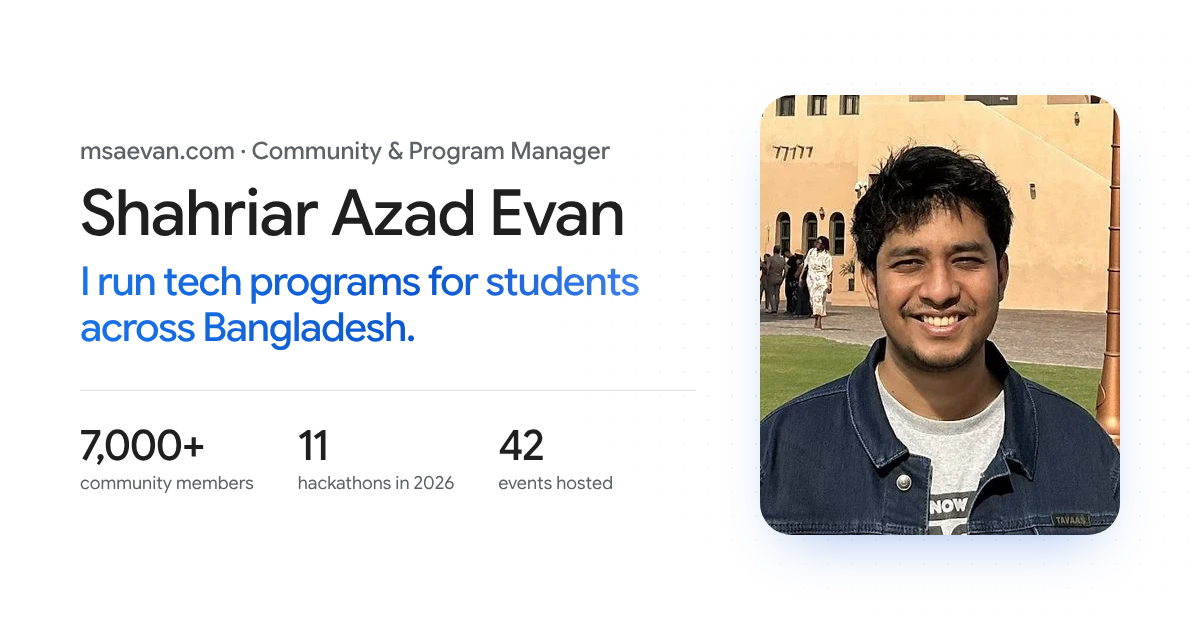
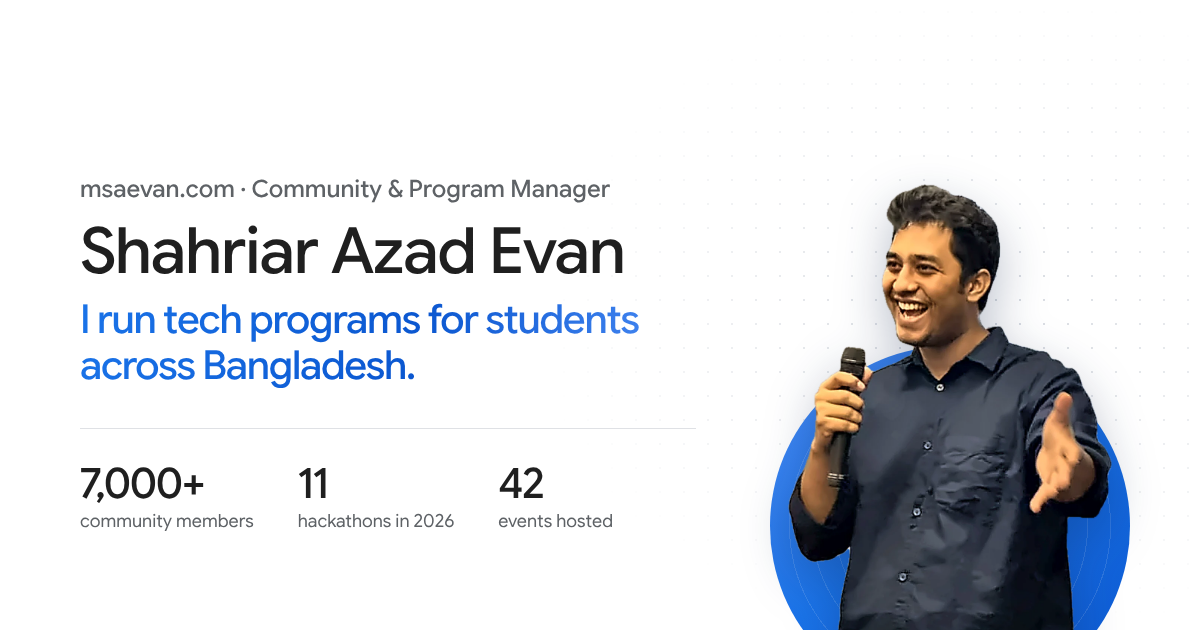
Hero stage with cut-out speaker photo, layered effects, Dhaka Tribune
- Transparent cut-out of the Hacktoberfest Hack Day photo (BiRefNet
  matting, denoise, local contrast, sharpening; 1x and 2x WebP) standing
  over a Google Blue disc with the network motif behind it
- Pointer-driven layered depth, cursor-lit dot grid, focus state for the
  journey cards, buttons that lean toward the cursor; all off for touch
  and reduced motion
- Press: Dhaka Tribune, Oct 2026 (Global Digital Forum delegation)
- Social card rebuilt with the new photo; drop unused portrait.webp

Claude-Session: https://claude.ai/code/session_01PLjxs9tdQ5vjxFupRfSiNv

diff --git a/index.html b/index.html
@@ -36,7 +36,7 @@
 <script type="application/ld+json">
 {"@context":"https://schema.org","@graph":[
 {"@type":"ProfilePage","@id":"https://msaevan.com/#page","url":"https://msaevan.com/","name":"Shahriar Azad Evan – Community & Program Manager","inLanguage":"en","dateModified":"2026-11-12","mainEntity":{"@id":"https://msaevan.com/#person"}},
-{"@type":"Person","@id":"https://msaevan.com/#person","name":"Shahriar Azad Evan","alternateName":["Md Shahriar Azad Evan","MSA Evan"],"url":"https://msaevan.com/","image":"https://msaevan.com/portrait.jpg","email":"mailto:shahriarazadevan@gmail.com","jobTitle":"Community & Program Manager","description":"Community and program manager in Dhaka, Bangladesh. Organizer of Machine Learning Bangladesh and founder of Cedar Initiative.","address":{"@type":"PostalAddress","addressLocality":"Dhaka","addressCountry":"BD"},
+{"@type":"Person","@id":"https://msaevan.com/#person","name":"Shahriar Azad Evan","alternateName":["Md Shahriar Azad Evan","MSA Evan"],"url":"https://msaevan.com/","image":["https://msaevan.com/portrait.jpg","https://msaevan.com/speaker@2x.webp"],"email":"mailto:shahriarazadevan@gmail.com","jobTitle":"Community & Program Manager","description":"Community and program manager in Dhaka, Bangladesh. Organizer of Machine Learning Bangladesh and founder of Cedar Initiative.","address":{"@type":"PostalAddress","addressLocality":"Dhaka","addressCountry":"BD"},
 "affiliation":[{"@type":"Organization","name":"Machine Learning Bangladesh","url":"https://mlbangladesh.org/"},{"@type":"Organization","name":"Cedar Initiative","url":"https://cedar-initiative.org/"},{"@type":"Organization","name":"CMX"}],
 "memberOf":{"@type":"Organization","name":"Google AI Community Network"},
 "alumniOf":[{"@type":"CollegeOrUniversity","name":"Kirkwood Community College"},{"@type":"CollegeOrUniversity","name":"United International University"}],
@@ -44,7 +44,7 @@
 "knowsAbout":["Community management","Program management","Event management","Hackathons","Kaggle competitions","Developer relations","Partnerships and sponsorships"],
 "knowsLanguage":["Bengali","English","Hindi"],
 "sameAs":["https://www.linkedin.com/in/msaevan101","https://x.com/msaevan101","https://www.kaggle.com/msaevan","https://www.facebook.com/shahriarazadevan"],
-"subjectOf":[{"@type":"WebPage","url":"https://mlbangladesh.org/team"},{"@type":"NewsArticle","url":"https://www.tbsnews.net/bangladesh/bangladeshi-youth-wins-top-spot-cica-artificial-intelligence-art-competition-1284891"}]}
+"subjectOf":[{"@type":"NewsArticle","url":"https://www.dhakatribune.com/bangladesh/foreign-affairs/422008/a-new-chapter-in-bangladesh%E2%80%93russia-digital"},{"@type":"WebPage","url":"https://mlbangladesh.org/team"},{"@type":"NewsArticle","url":"https://www.tbsnews.net/bangladesh/bangladeshi-youth-wins-top-spot-cica-artificial-intelligence-art-competition-1284891"}]}
 ]}
 </script>
 <script>document.documentElement.classList.add('js');try{var t=localStorage.getItem('theme');if(t)document.documentElement.setAttribute('data-theme',t)}catch(e){}</script>
@@ -110,7 +110,7 @@ img{display:block;max-width:100%}
 }
 
 /* Buttons */
-.btn{display:inline-flex;align-items:center;justify-content:center;gap:8px;min-height:48px;padding:0 24px;border-radius:999px;font-size:16px;font-weight:500;white-space:nowrap;transition:background .2s,filter .2s,box-shadow .2s}
+.btn{transition:transform .25s cubic-bezier(.2,.7,.2,1),background .2s,filter .2s,box-shadow .2s;display:inline-flex;align-items:center;justify-content:center;gap:8px;min-height:48px;padding:0 24px;border-radius:999px;font-size:16px;font-weight:500;white-space:nowrap;transition:background .2s,filter .2s,box-shadow .2s}
 .btn:hover{text-decoration:none}
 .btn.primary{background:var(--btn);color:var(--btn-ink)}
 .btn.primary:hover{filter:brightness(1.06);box-shadow:0 1px 3px rgba(26,115,232,.35)}
@@ -285,7 +285,7 @@ footer a{color:var(--ink-2)}
 .net .p{fill:none;stroke:var(--blue);stroke-width:2.4;stroke-linecap:round;vector-effect:non-scaling-stroke;stroke-dasharray:0 100;opacity:0}
 .net .n{fill:var(--bg);stroke:var(--blue);stroke-width:1.6;vector-effect:non-scaling-stroke}
 .net .n.big{fill:var(--blue);stroke:none}
-@media (max-width:820px){.visual .net{display:none}.visual{order:-1}}
+
 /* blue stat tile */
 .stat{position:relative;overflow:hidden}
 .stat.blue{background:var(--grad-tile)}
@@ -333,6 +333,39 @@ footer a{color:var(--ink-2)}
   }
 }
 @media print{.net,.hero::before,.rail-row,.stat .arcs{display:none}.hero .accent{color:#0b57d0;background:none}}
+
+/* ===== Hero stage: cut-out portrait over a blue disc, layered depth ===== */
+.stage{position:relative;aspect-ratio:4/5;max-width:440px;margin-left:auto;isolation:isolate;--px:0;--py:0}
+.stage>*{will-change:transform}
+.disc{position:absolute;left:0;right:0;bottom:0;aspect-ratio:1;border-radius:50%;z-index:0;
+  background:repeating-radial-gradient(circle at 50% 50%,rgba(255,255,255,0) 0 22px,rgba(255,255,255,.12) 22px 23px),var(--grad-tile);
+  box-shadow:0 40px 80px -30px rgba(11,87,208,.55),inset 0 -30px 60px rgba(4,40,110,.35);
+  clip-path:inset(-20% -20% 0 -20%)}
+.stage .net{position:absolute;inset:-18% -22% 8% -22%;width:144%;height:110%;z-index:-1}
+.speaker{position:absolute;left:50%;bottom:0;width:84%;height:auto;max-width:none;z-index:1;transform:translateX(-50%);filter:drop-shadow(0 18px 24px rgba(10,30,70,.28))}
+.chip{position:absolute;left:-6%;top:38%;z-index:2;display:inline-flex;align-items:center;gap:8px;padding:9px 14px;border-radius:999px;font-size:13px;font-weight:500;color:var(--ink);
+  background:color-mix(in srgb,var(--surface) 78%,transparent);backdrop-filter:blur(14px) saturate(1.6);-webkit-backdrop-filter:blur(14px) saturate(1.6);box-shadow:0 8px 28px -10px rgba(10,30,70,.35),inset 0 0 0 1px color-mix(in srgb,var(--ink) 8%,transparent)}
+.live{width:8px;height:8px;border-radius:50%;background:var(--blue);box-shadow:0 0 0 0 rgba(26,115,232,.5)}
+@media (max-width:820px){.visual{order:-1}.stage{max-width:260px;margin:0 auto 8px}.chip{left:-4%;top:30%}.stage .net{display:none}}
+/* pointer-reactive dot grid */
+.hero::after{content:"";position:absolute;inset:0;z-index:-1;pointer-events:none;opacity:0;transition:opacity .4s;
+  background-image:radial-gradient(var(--blue) 1.2px,transparent 1.5px);background-size:24px 24px;
+  -webkit-mask-image:radial-gradient(180px circle at var(--hx,50%) var(--hy,50%),#000,transparent 70%);mask-image:radial-gradient(180px circle at var(--hx,50%) var(--hy,50%),#000,transparent 70%)}
+.hero.lit::after{opacity:.55}
+/* journey focus */
+.ms{transition:opacity .5s,transform .5s cubic-bezier(.2,.7,.2,1)}
+.js .track.focus .ms:not(.active){opacity:.5;transform:scale(.97)}
+@media (prefers-reduced-motion:no-preference){
+  .disc{animation:discIn 1.1s cubic-bezier(.16,1,.3,1) both .1s}
+  .speaker{animation:riseIn 1.1s cubic-bezier(.16,1,.3,1) both .25s}
+  .chip{animation:chipIn .7s cubic-bezier(.2,1.3,.4,1) both .9s}
+  .live{animation:live 2.4s ease-out infinite 1.6s}
+  @keyframes discIn{from{transform:scale(.82);opacity:0}to{transform:none;opacity:1}}
+  @keyframes riseIn{from{transform:translate(-50%,40px);opacity:0}to{transform:translateX(-50%);opacity:1}}
+  @keyframes chipIn{from{transform:translateY(10px) scale(.9);opacity:0}to{transform:none;opacity:1}}
+  @keyframes live{0%{box-shadow:0 0 0 0 rgba(26,115,232,.55)}80%,100%{box-shadow:0 0 0 10px rgba(26,115,232,0)}}
+}
+@media print{.disc,.chip,.hero::after{display:none}}
 
 /* Motion: hero reveal and count-ups */
 @media (prefers-reduced-motion:no-preference){
@@ -393,11 +426,12 @@ footer a{color:var(--ink-2)}
       </div>
     </div>
     <div class="visual">
-      <svg class="net" viewBox="0 0 400 400" aria-hidden="true" focusable="false"><path class="e" pathLength="100" style="--i:0" d="M137 74L45 53"/><path class="e" pathLength="100" style="--i:1" d="M137 74L120 170"/><path class="e" pathLength="100" style="--i:2" d="M254 46L213 152"/><path class="e" pathLength="100" style="--i:3" d="M254 46L371 37"/><path class="e" pathLength="100" style="--i:4" d="M254 46L329 124"/><path class="e" pathLength="100" style="--i:5" d="M213 152L120 170"/><path class="e" pathLength="100" style="--i:6" d="M213 152L206 242"/><path class="e" pathLength="100" style="--i:7" d="M41 203L42 273"/><path class="e" pathLength="100" style="--i:8" d="M41 203L120 170"/><path class="e" pathLength="100" style="--i:9" d="M41 203L29 335"/><path class="e" pathLength="100" style="--i:10" d="M41 203L30 121"/><path class="e" pathLength="100" style="--i:11" d="M45 53L30 121"/><path class="e" pathLength="100" style="--i:12" d="M173 318L246 361"/><path class="e" pathLength="100" style="--i:13" d="M173 318L206 242"/><path class="e" pathLength="100" style="--i:14" d="M246 361L322 360"/><path class="e" pathLength="100" style="--i:15" d="M371 37L329 124"/><path class="e" pathLength="100" style="--i:16" d="M329 124L364 181"/><path class="e" pathLength="100" style="--i:17" d="M133 231L120 170"/><path class="e" pathLength="100" style="--i:18" d="M133 231L206 242"/><path class="e" pathLength="100" style="--i:19" d="M306 272L322 360"/><path class="e" pathLength="100" style="--i:20" d="M306 272L206 242"/><path class="e" pathLength="100" style="--i:21" d="M306 272L364 181"/><path class="e" pathLength="100" style="--i:22" d="M42 273L29 335"/><path class="p" pathLength="100" style="--i:0" d="M137 74L120 170"/><path class="p" pathLength="100" style="--i:1" d="M213 152L120 170"/><path class="p" pathLength="100" style="--i:2" d="M41 203L29 335"/><path class="p" pathLength="100" style="--i:3" d="M246 361L322 360"/><path class="p" pathLength="100" style="--i:4" d="M306 272L322 360"/><circle class="n big" style="--i:0" cx="137" cy="74" r="6"/><circle class="n" style="--i:1" cx="254" cy="46" r="3.5"/><circle class="n" style="--i:2" cx="213" cy="152" r="3.5"/><circle class="n" style="--i:3" cx="41" cy="203" r="3.5"/><circle class="n" style="--i:4" cx="45" cy="53" r="3.5"/><circle class="n big" style="--i:5" cx="173" cy="318" r="6"/><circle class="n" style="--i:6" cx="246" cy="361" r="3.5"/><circle class="n" style="--i:7" cx="371" cy="37" r="3.5"/><circle class="n" style="--i:8" cx="329" cy="124" r="3.5"/><circle class="n" style="--i:9" cx="133" cy="231" r="3.5"/><circle class="n big" style="--i:10" cx="306" cy="272" r="6"/><circle class="n" style="--i:11" cx="322" cy="360" r="3.5"/><circle class="n" style="--i:12" cx="42" cy="273" r="3.5"/><circle class="n" style="--i:13" cx="120" cy="170" r="3.5"/><circle class="n" style="--i:14" cx="206" cy="242" r="3.5"/><circle class="n big" style="--i:15" cx="29" cy="335" r="6"/><circle class="n" style="--i:16" cx="30" cy="121" r="3.5"/><circle class="n" style="--i:17" cx="364" cy="181" r="3.5"/></svg>
-    <figure class="portrait fade" style="--d:200ms">
-      <img class="u-photo" src="portrait.webp" width="440" height="440" alt="Portrait of Shahriar Azad Evan" fetchpriority="high">
-      <figcaption><b>Organizer, Machine Learning Bangladesh</b>Founder, Cedar Initiative</figcaption>
-    </figure>
+      <div class="stage" id="stage">
+        <div class="disc" data-depth="8" aria-hidden="true"></div>
+        <svg class="net" data-depth="16" viewBox="0 0 400 400" aria-hidden="true" focusable="false"><path class="e" pathLength="100" style="--i:0" d="M137 74L45 53"/><path class="e" pathLength="100" style="--i:1" d="M137 74L120 170"/><path class="e" pathLength="100" style="--i:2" d="M254 46L213 152"/><path class="e" pathLength="100" style="--i:3" d="M254 46L371 37"/><path class="e" pathLength="100" style="--i:4" d="M254 46L329 124"/><path class="e" pathLength="100" style="--i:5" d="M213 152L120 170"/><path class="e" pathLength="100" style="--i:6" d="M213 152L206 242"/><path class="e" pathLength="100" style="--i:7" d="M41 203L42 273"/><path class="e" pathLength="100" style="--i:8" d="M41 203L120 170"/><path class="e" pathLength="100" style="--i:9" d="M41 203L29 335"/><path class="e" pathLength="100" style="--i:10" d="M41 203L30 121"/><path class="e" pathLength="100" style="--i:11" d="M45 53L30 121"/><path class="e" pathLength="100" style="--i:12" d="M173 318L246 361"/><path class="e" pathLength="100" style="--i:13" d="M173 318L206 242"/><path class="e" pathLength="100" style="--i:14" d="M246 361L322 360"/><path class="e" pathLength="100" style="--i:15" d="M371 37L329 124"/><path class="e" pathLength="100" style="--i:16" d="M329 124L364 181"/><path class="e" pathLength="100" style="--i:17" d="M133 231L120 170"/><path class="e" pathLength="100" style="--i:18" d="M133 231L206 242"/><path class="e" pathLength="100" style="--i:19" d="M306 272L322 360"/><path class="e" pathLength="100" style="--i:20" d="M306 272L206 242"/><path class="e" pathLength="100" style="--i:21" d="M306 272L364 181"/><path class="e" pathLength="100" style="--i:22" d="M42 273L29 335"/><path class="p" pathLength="100" style="--i:0" d="M137 74L120 170"/><path class="p" pathLength="100" style="--i:1" d="M213 152L120 170"/><path class="p" pathLength="100" style="--i:2" d="M41 203L29 335"/><path class="p" pathLength="100" style="--i:3" d="M246 361L322 360"/><path class="p" pathLength="100" style="--i:4" d="M306 272L322 360"/><circle class="n big" style="--i:0" cx="137" cy="74" r="6"/><circle class="n" style="--i:1" cx="254" cy="46" r="3.5"/><circle class="n" style="--i:2" cx="213" cy="152" r="3.5"/><circle class="n" style="--i:3" cx="41" cy="203" r="3.5"/><circle class="n" style="--i:4" cx="45" cy="53" r="3.5"/><circle class="n big" style="--i:5" cx="173" cy="318" r="6"/><circle class="n" style="--i:6" cx="246" cy="361" r="3.5"/><circle class="n" style="--i:7" cx="371" cy="37" r="3.5"/><circle class="n" style="--i:8" cx="329" cy="124" r="3.5"/><circle class="n" style="--i:9" cx="133" cy="231" r="3.5"/><circle class="n big" style="--i:10" cx="306" cy="272" r="6"/><circle class="n" style="--i:11" cx="322" cy="360" r="3.5"/><circle class="n" style="--i:12" cx="42" cy="273" r="3.5"/><circle class="n" style="--i:13" cx="120" cy="170" r="3.5"/><circle class="n" style="--i:14" cx="206" cy="242" r="3.5"/><circle class="n big" style="--i:15" cx="29" cy="335" r="6"/><circle class="n" style="--i:16" cx="30" cy="121" r="3.5"/><circle class="n" style="--i:17" cx="364" cy="181" r="3.5"/></svg>
+        <img class="speaker u-photo" data-depth="-5" src="speaker.webp" srcset="speaker.webp 484w, speaker@2x.webp 968w" sizes="(max-width:820px) 62vw, 420px" width="484" height="726" alt="Shahriar Azad Evan speaking at Hacktoberfest Hack Day in Dhaka" fetchpriority="high">
+        <p class="chip" data-depth="22"><span class="live" aria-hidden="true"></span>Hacktoberfest Hack Day · Dhaka</p>
+      </div>
     </div>
   </div>
 </div>
@@ -586,6 +620,7 @@ footer a{color:var(--ink-2)}
       <li class="award"><p class="yr">Awareness360</p><h3>Star Fellow</h3><p>Recognised for youth awareness work.</p></li>
     </ul>
     <ol class="press" aria-label="In the press">
+      <li><p class="src">Dhaka Tribune · Oct 2026</p><div class="t"><a href="https://www.dhakatribune.com/bangladesh/foreign-affairs/422008/a-new-chapter-in-bangladesh%E2%80%93russia-digital" target="_blank" rel="noopener">Bangladesh delegation joins global digital forum in Russia</a><p>Names me in the 19-member Bangladeshi delegation to the second Global Digital Forum in Moscow.</p></div></li>
       <li><p class="src">The Business Standard · Nov 2025</p><div class="t"><a href="https://www.tbsnews.net/bangladesh/bangladeshi-youth-wins-top-spot-cica-artificial-intelligence-art-competition-1284891" target="_blank" rel="noopener">Bangladeshi youth wins top spot in CICA Artificial Intelligence Art Competition</a></div></li>
       <li><p class="src">The Daily Star, The Business Standard · Sep 2026</p><div class="t"><a href="https://www.thedailystar.net/business/news/herfinance-crowned-champion-tech-her-hackathon-2026-4286956" target="_blank" rel="noopener">HerFinance crowned champion at Tech for Her Hackathon 2026</a><p>Also in <a href="https://www.tbsnews.net/economy/corporates/herfinance-crowned-champion-herwills-tech-her-hackathon-2026-1558386" target="_blank" rel="noopener">The Business Standard</a>.</p></div></li>
       <li><p class="src">Google Developers Blog · 2024</p><div class="t"><a href="https://developers.googleblog.com/en/ml-olympiad-2024-globally-distributed-ml-competitions-by-google-ml-community/" target="_blank" rel="noopener">ML Olympiad 2024: globally distributed ML competitions by the Google ML community</a><p>Lists the CO₂ Emissions Prediction Challenge and its hosts.</p></div></li>
@@ -671,6 +706,26 @@ footer a{color:var(--ink-2)}
     function f(t){if(!t0)t0=t;var p=Math.min((t-t0)/dur,1),v=Math.round(end*(1-Math.pow(1-p,3)));el.textContent=v.toLocaleString('en-US')+suf;if(p<1)requestAnimationFrame(f);else el.textContent=txt}
     requestAnimationFrame(f)})},{threshold:.6});
   nums.forEach(function(n){io.observe(n)});
+})();
+(function(){
+  var fine=matchMedia('(hover: hover) and (pointer: fine)').matches,still=matchMedia('(prefers-reduced-motion: reduce)').matches;
+  /* journey: highlight the card in view */
+  var tr=document.getElementById('track');
+  if('IntersectionObserver' in window){tr.classList.add('focus');var cards=tr.querySelectorAll('.ms');
+    var io=new IntersectionObserver(function(es){es.forEach(function(e){e.target.classList.toggle('active',e.intersectionRatio>.75)})},{root:tr,threshold:[0,.75,1]});
+    cards.forEach(function(c){io.observe(c)})}
+  if(!fine||still)return;
+  /* hero: layered depth + lit dot grid */
+  var hero=document.querySelector('.hero'),layers=document.querySelectorAll('#stage [data-depth]'),raf=0,tx=0,ty=0,cx=0,cy=0;
+  function loop(){cx+=(tx-cx)*.08;cy+=(ty-cy)*.08;layers.forEach(function(l){var d=+l.dataset.depth;var base=l.classList.contains('speaker')?'translateX(-50%) ':'';l.style.transform=base+'translate3d('+(cx*d).toFixed(2)+'px,'+(cy*d).toFixed(2)+'px,0)'});
+    if(Math.abs(tx-cx)>.001||Math.abs(ty-cy)>.001)raf=requestAnimationFrame(loop);else raf=0}
+  hero.addEventListener('pointermove',function(e){var r=hero.getBoundingClientRect();tx=(e.clientX-r.left)/r.width-.5;ty=(e.clientY-r.top)/r.height-.5;
+    hero.style.setProperty('--hx',(e.clientX-r.left)+'px');hero.style.setProperty('--hy',(e.clientY-r.top)+'px');hero.classList.add('lit');if(!raf)raf=requestAnimationFrame(loop)});
+  hero.addEventListener('pointerleave',function(){tx=0;ty=0;hero.classList.remove('lit');if(!raf)raf=requestAnimationFrame(loop)});
+  /* primary buttons lean toward the cursor */
+  document.querySelectorAll('.btn.primary,.contact .btn.solid').forEach(function(b){
+    b.addEventListener('pointermove',function(e){var r=b.getBoundingClientRect();b.style.transform='translate('+((e.clientX-r.left)/r.width-.5)*6+'px,'+((e.clientY-r.top)/r.height-.5)*6+'px)'});
+    b.addEventListener('pointerleave',function(){b.style.transform=''})});
 })();
 </script>
 </body>
